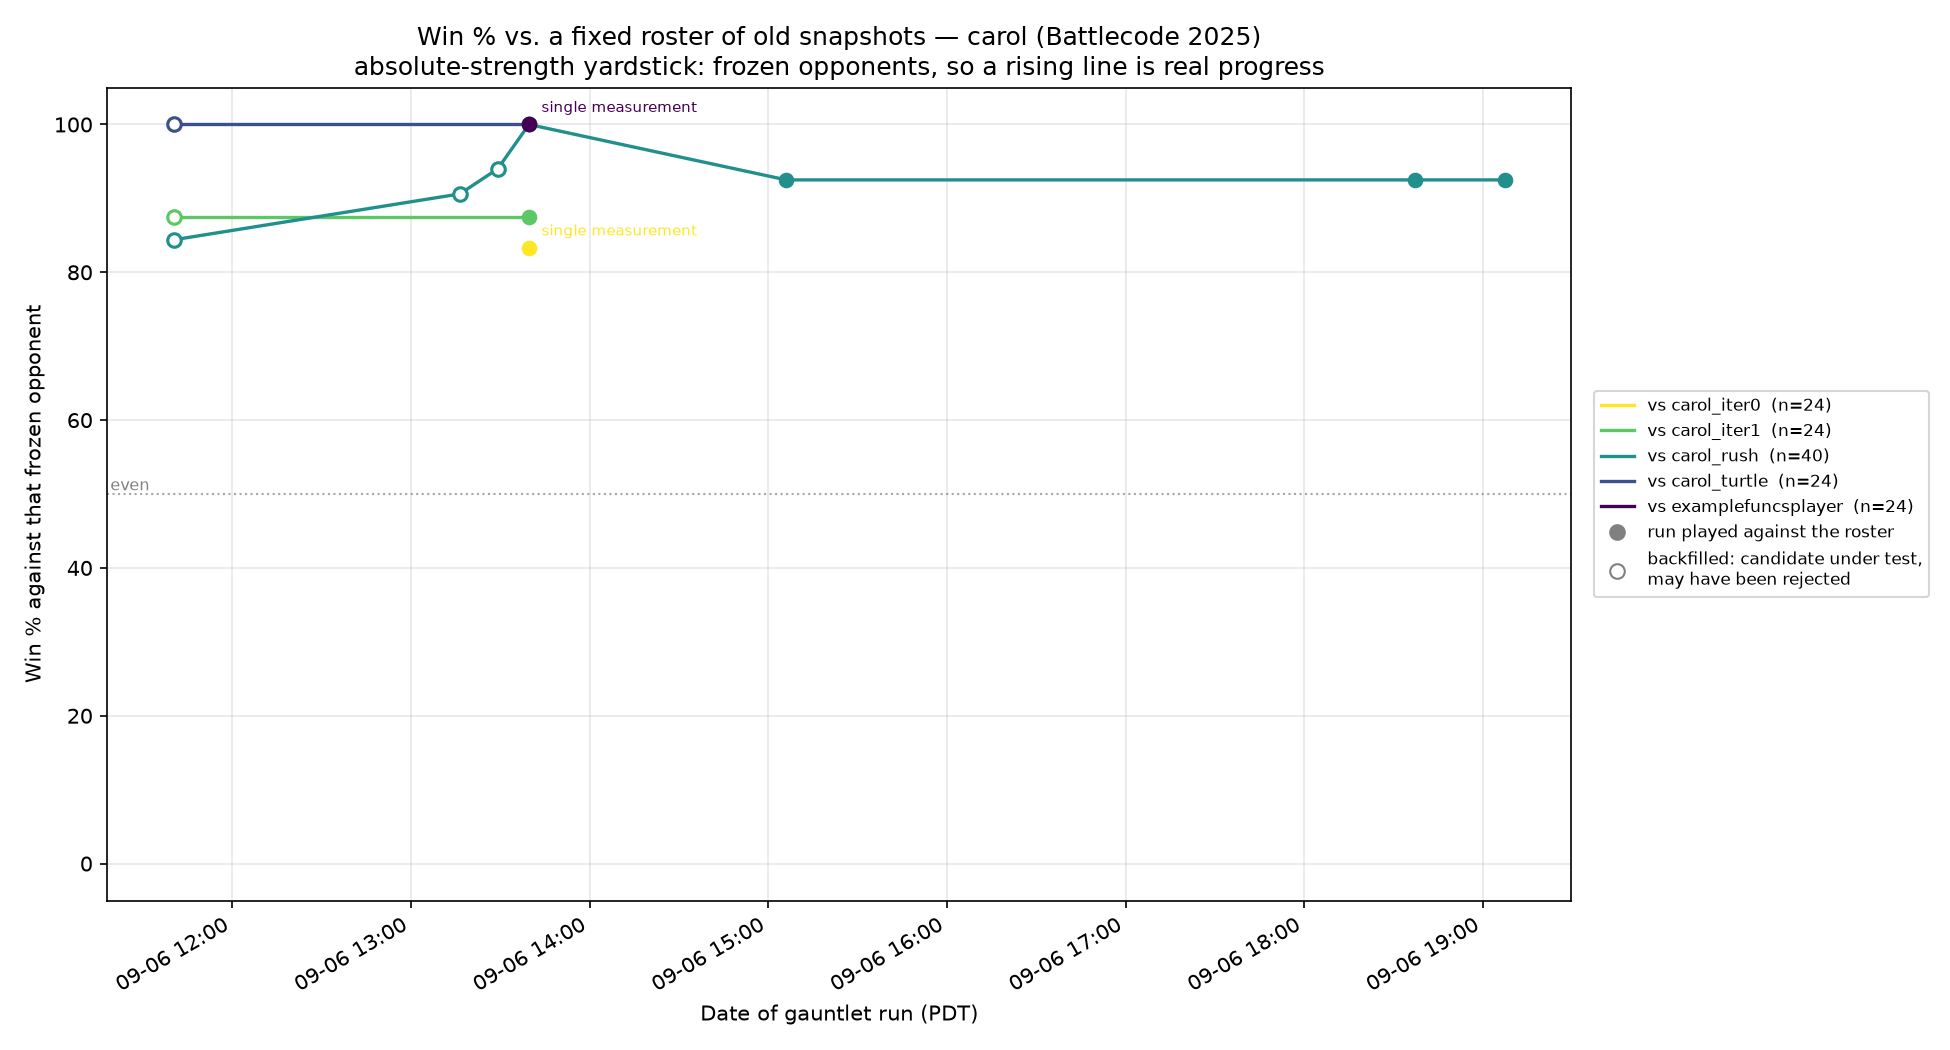
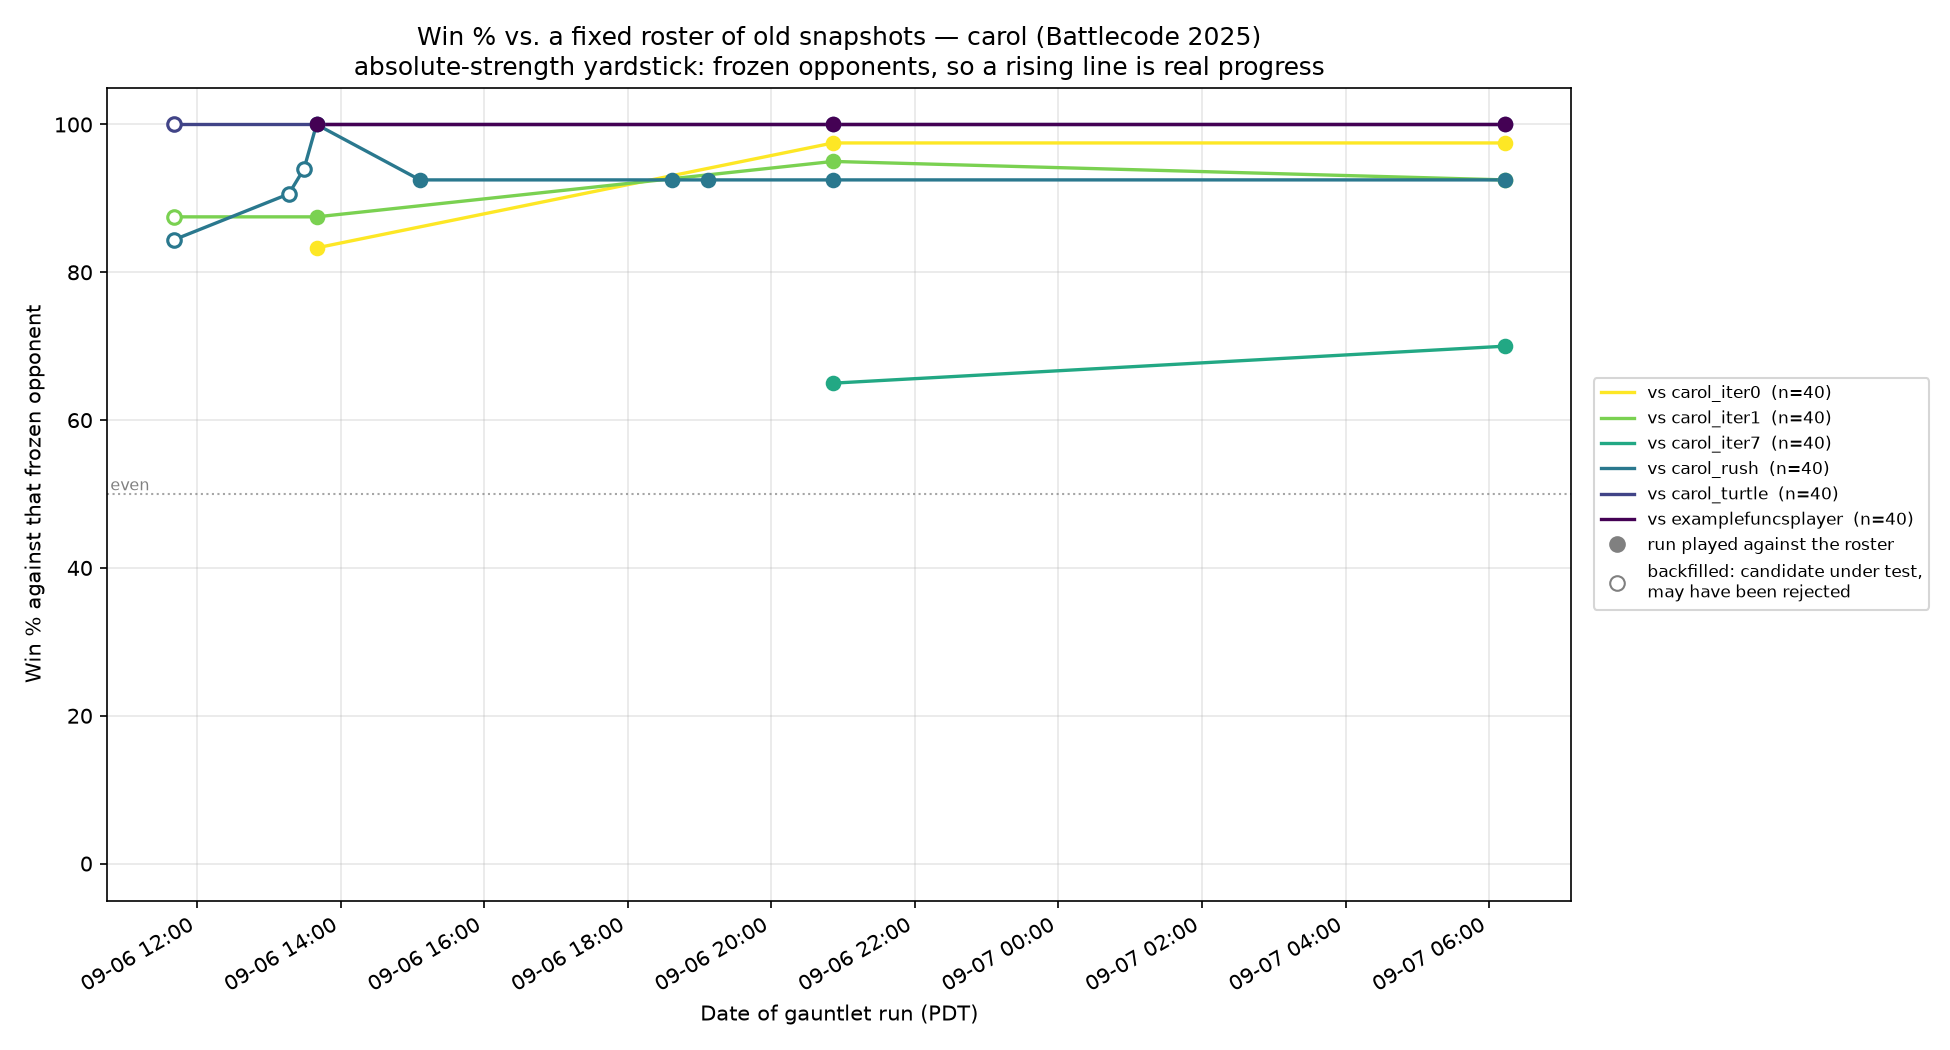
carol: frozen roster CONFIRMS iteration 14 -- 28/40 vs carol_iter7, up from 25/40
Same 20 pinned maps as every roster run since iteration 11. iter11 62.5% -> i13 65.0%
-> i14 70.0%, swept 10-2. Iteration 14 alone is +3 games on the frozen opponent, where
iteration 13 was +1 across two iterations and was rejected for it.

Claude-Session: https://claude.ai/code/session_01AaaGzxRUmH5UDEVerTki8y

diff --git a/agents/carol/TRAINING_LOG.md b/agents/carol/TRAINING_LOG.md
@@ -4588,3 +4588,29 @@ for 15c.
 - **"Remember where EMPTY ground was seen" — CLOSED (15a).** Write condition (turns the
   vision scan already finds a target) is anti-correlated with read condition (turns it does
   not): memHit 1,250 vs memNone 8,084 on Castle. No gauntlet spent.
+
+## Iteration 14 CONFIRMED by the frozen roster (§5b scheduled check)
+
+Run `20260907-131258`, 240 games, **same 20 pinned maps** as every roster run since iteration
+11 — so this is a like-for-like comparison against a never-changing opponent, which is the
+only absolute-strength instrument I own.
+
+| build | vs `carol_iter7` (the one non-saturated roster opponent) |
+|---|---|
+| `carol_iter11` | 25/40 = 62.5% |
+| `carol_i13` (rejected) | 26/40 = 65.0% |
+| **`carol_i14` (accepted)** | **28/40 = 70.0%**, swept 10 win / 2 loss |
+
+**+3 games on the frozen opponent from iteration 14 alone**, against iteration 13's +1 across
+*two* accepted iterations — the margin that killed iteration 13 under doctrine #9. The rest of
+the roster is saturated and carries no information (iter0 97.5%, iter1 92.5%, turtle and
+examplefuncsplayer 100%, rush 92.5%), which is why `carol_iter7` is the one line I read.
+
+Overall 221/240 = 92.1%. This is the check §5b says to run on a schedule precisely because a
+head-to-head against one's predecessor cannot distinguish a rising lineage from a drifting
+one. Here it says: rising, and by the same amount the head-to-head claimed.
+
+**Note on what this does NOT say.** 92.1% against my own frozen lineage sits alongside 19.8%
+in the tournament running right now. Both are true and they measure different things; the
+roster is a regression instrument, not evidence of absolute strength. See the tournament
+section below.
